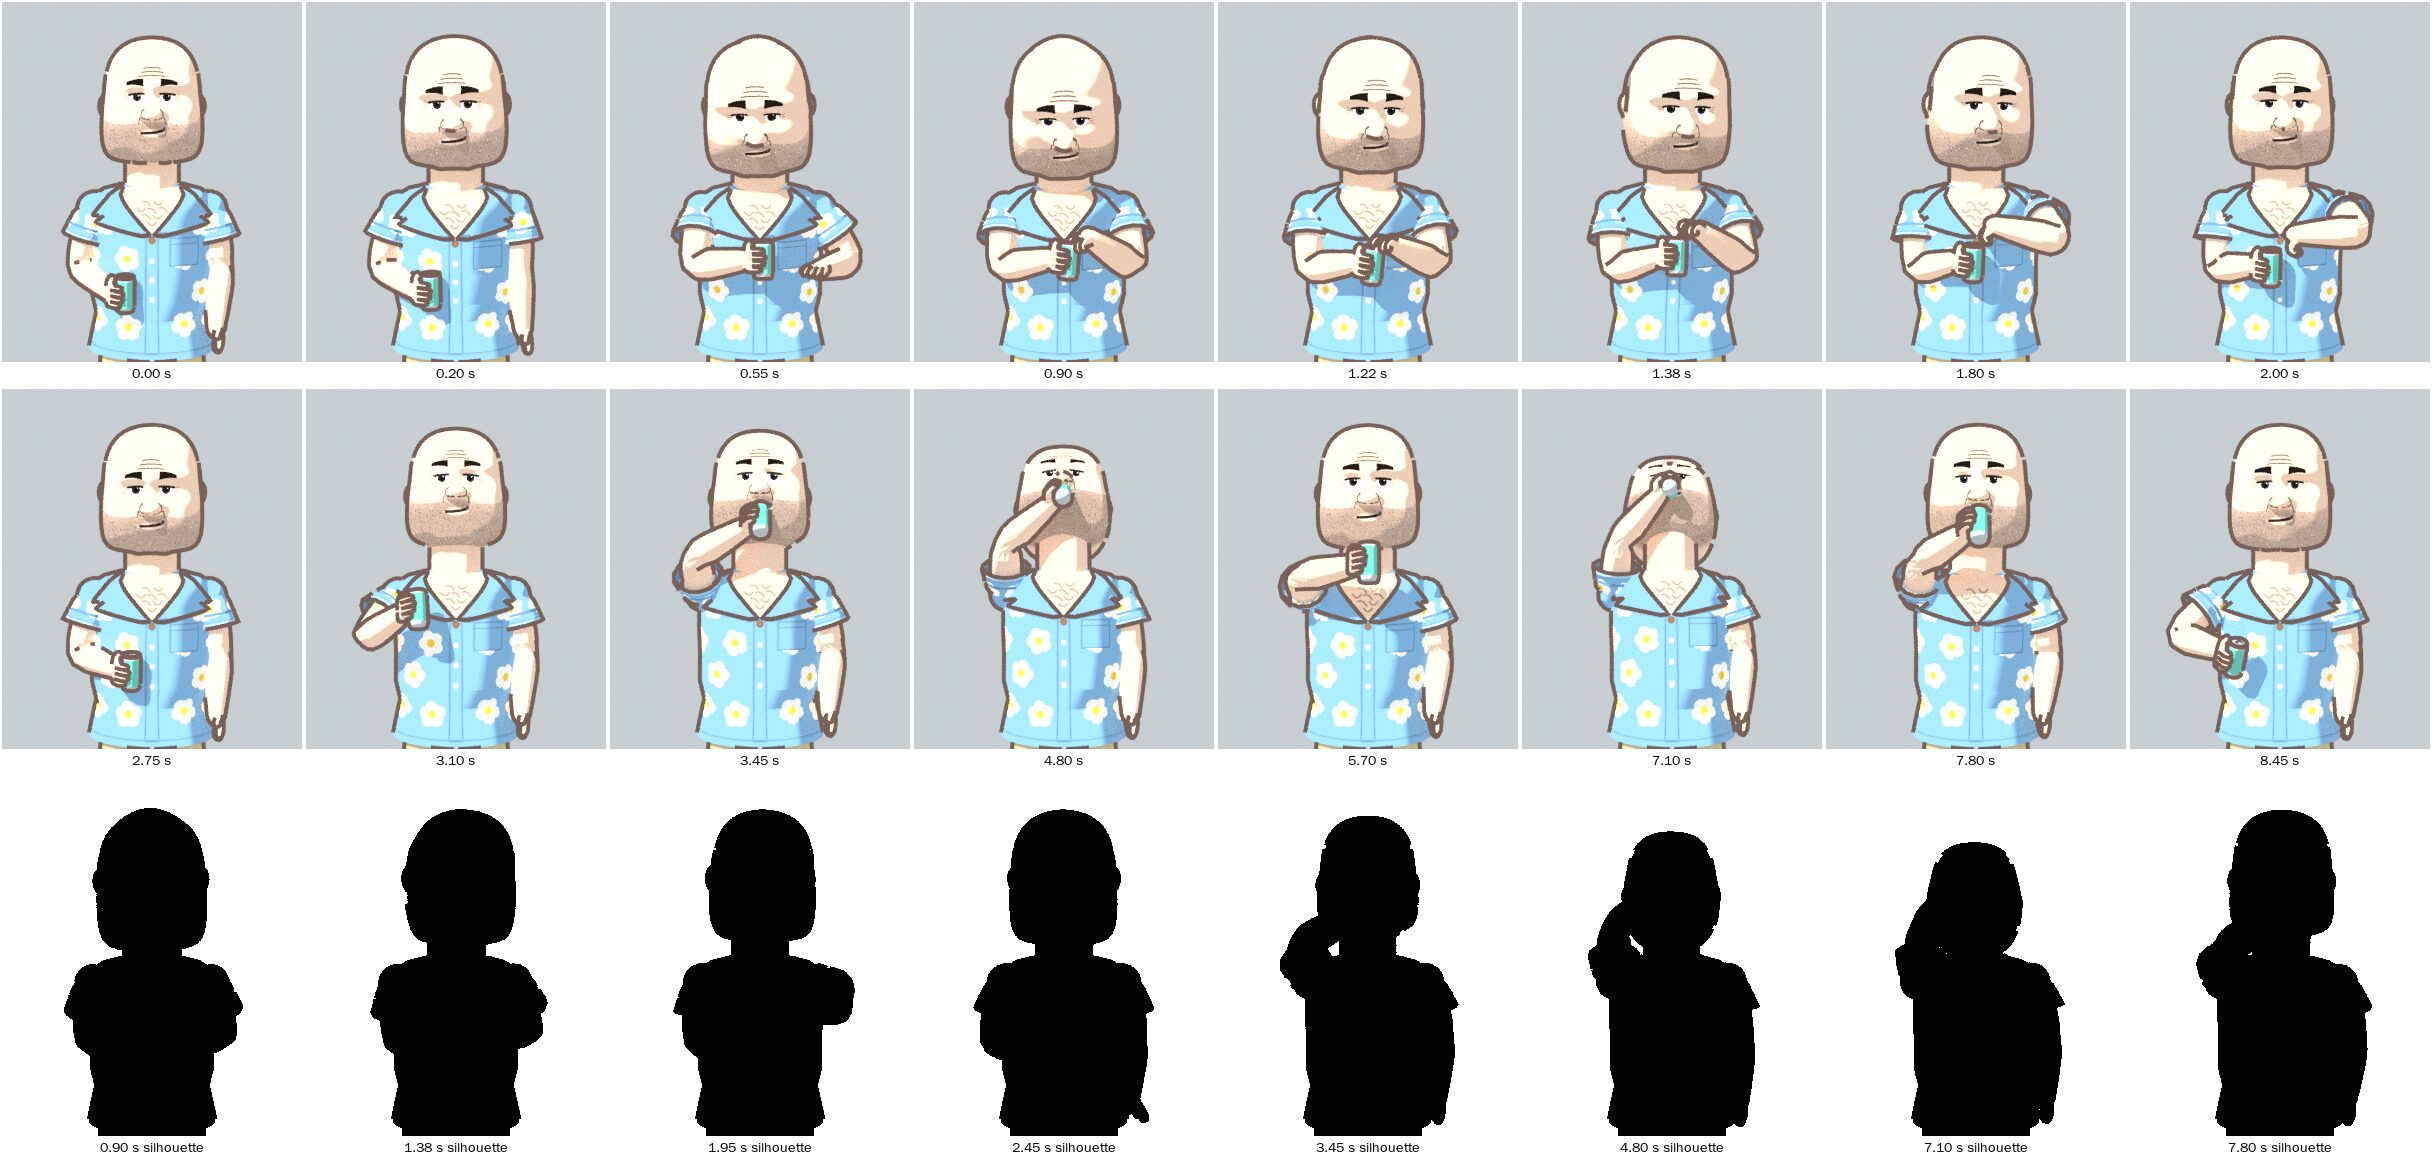
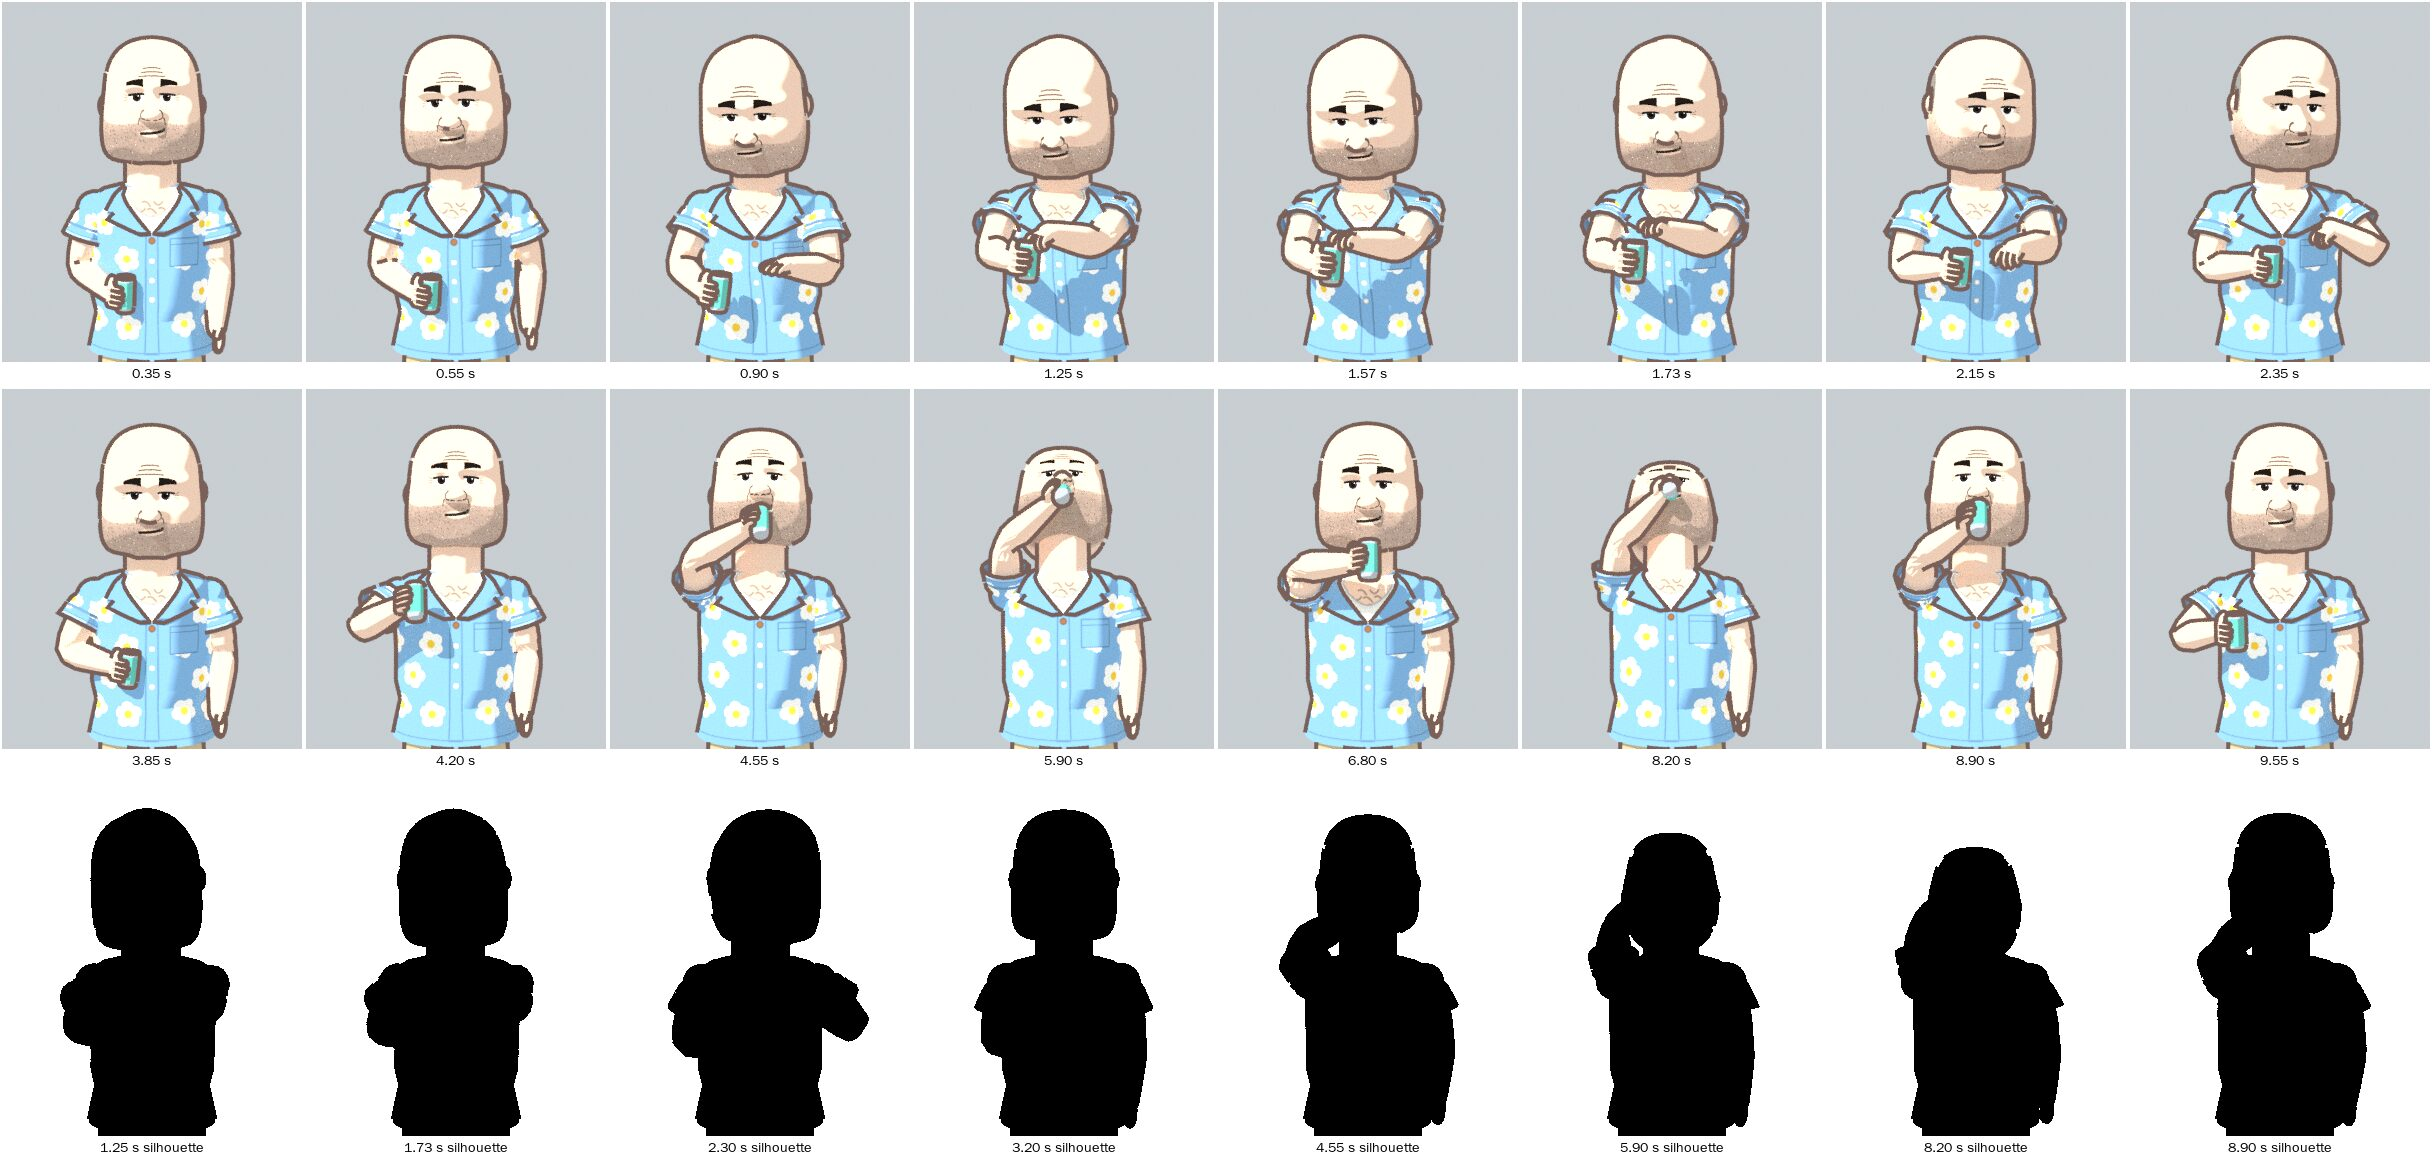
The drink off most of the baseline: sheets, handover and the standard's section 6
- Under the merged general stance easing (stanceStep) the can block's own stance correction is gone:
  the general one keeps the stance under the move.
- A play of the drink forgets the elbow ways of the last (the audit's results depended on the order
  the moves were played in); the hands' level blends in over 0.32 s (the can came up from Tetsuo's
  hanging hand 30 mm a frame over 0.3 s).
- The baseline only shrank: DrinkCan and DrinkCanOpened now fail only ease on Vy and Sverker and
  overlap on all three (both levels stop in the move's last frame since the general stance easing).
- tests/avatar-polish.test.mjs is in the CI guard (it passes whole).
- Sheets re-rendered after the merge (the smaller collar): the four Blender sheets and the game's for
  Johansson standing, Thao seated and Vy, each with the game camera's two views.
- The handover's drink section and the standard's section 6 say where it stands.

CI guard: 722 of 724, the two known (the resident guide's portraits, the runtime package).

Claude-Session: https://claude.ai/code/session_0137qroVAMP4XvjuzgJ9QXN9

diff --git a/src/avatars/drink-can.js b/src/avatars/drink-can.js
@@ -30,7 +30,7 @@ export const CAN_PARTS=Object.freeze({open:[0,M.markers.drinkEnd],drink:[M.marke
 const tracks=Object.entries(M.joints).map(([name,data])=>[name,new THREE.QuaternionKeyframeTrack(name+'.quaternion',T,data).createInterpolant()]);
 const _q=new THREE.Quaternion(),_v=new THREE.Vector3(),_w=new THREE.Vector3(),_m=new THREE.Quaternion();
 const smooth=x=>{x=Math.min(1,Math.max(0,x));return x*x*(3-2*x);};
-const pockets=new WeakMap(),lips=new WeakMap(),chosen=new WeakMap();
+const pockets=new WeakMap(),lips=new WeakMap(),chosen=new WeakMap(),played=new WeakMap();
 /** The body the motion was made on (tools/blender/drink-can.py writes its name and size into `props.can.made`): the can is
  *  not drawn to a body's size, nor held in its socket in proportion, so a body of another size cannot take the can's part of
  *  the paths in its own proportion (Vy's rim came 25 mm off her lip, her hooked finger 26 mm off the ring, the can 7 mm into
@@ -83,11 +83,11 @@ function poseAt(avatar,t,w){
 
 /** The drag hierarchy (docs/ANIMATION-STANDARD.md 3.5): the root, then the chest, head and upper arms, then the forearms
  *  and hands. The move blends in and out level by level, six game frames apart (the root first both ways), not every
- *  joint in the same frame out of the stance the animator had: in, each over 0.25 s (the forearms and hands 0.3 s: the
+ *  joint in the same frame out of the stance the animator had: in, each over 0.25 s (the forearms and hands 0.32 s: the
  *  can comes from a hanging hand no faster than 30 mm a frame), all of it within the motion's still
  *  beat at its start (0.35 s, then the left hand's first key), so the opening's anticipation and the drink's are played
  *  whole; out, each over 0.45 s, from the can settled at his waist. */
-const LEVEL={spine:0,chest:1,neck:1,head:1,shoulderL:1,shoulderR:1,elbowL:2,elbowR:2,handL:2,handR:2},APART=.1,IN=.25,IN_HANDS=.3,OUT=.45,APART_OUT=.1;
+const LEVEL={spine:0,chest:1,neck:1,head:1,shoulderL:1,shoulderR:1,elbowL:2,elbowR:2,handL:2,handR:2},APART=.1,IN=.25,IN_HANDS=.32,OUT=.45,APART_OUT=.1;
 /** Each level's weight, `blend` {in: seconds since the move began, out: seconds before it ends}. */
 export function levelWeights(blend){
  return [0,1,2].map(l=>smooth((blend.in-l*APART)/(l===2?IN_HANDS:IN))*smooth((blend.out-(2-l)*APART_OUT)/OUT));
@@ -189,6 +189,8 @@ export function wristExcess(q,side){
  */
 export function playCanDrink(avatar,prop,t,w=1,blend=null){
  const cues=canCues(t),fix={lip:0,ring:0,pocket:0,R:0,L:0};
+ // (a new play of it, not the next frame: the ways the elbows took last time forgotten, so no play starts from another's)
+ const lastT=played.get(avatar);if(lastT===undefined||Math.abs(t-lastT)>.1)chosen.delete(avatar);played.set(avatar,t);
  // (blended level by level where the move says how far in and out it is; the hands' level is the contacts' weight)
  const lw=blend?levelWeights(blend):null;if(lw)w=lw[2];
  if(w<=0&&!(lw&&lw[0]>0))return {...cues,fix};

diff --git a/src/avatars/animate.js b/src/avatars/animate.js
@@ -1249,15 +1249,6 @@ export function createAvatarAnimator(avatar,{lively=false,random=Math.random,bow
   // A can bought and drunk (actors.js drinkBought): the motion over the pose so far, blended in and out (the arm comes up
   // from where it hung to the can held at the waist, and goes back); the tab's moments as the motion has them.
   const canPart=avatar.pixar?null:gesture?.name==='DrinkCan'?CAN_PARTS.open:gesture?.name==='DrinkCanOpened'?CAN_PARTS.drink:null;
-  // (the stance kept under the can, as under the story's eased moves (EASED): a loafer's hands in the pockets, an elder's
-  // behind the back, the lean. The motion blends in from it and back out to it, and the animator is in it as the move ends,
-  // so the arms neither leave it nor go back to it in a frame. This frame's ease toward its targets was made without it (and
-  // so was the last frame's, the one the move ends in): put right by what the stance adds to them, as much of it as that
-  // ease takes (k))
-  if((canPart||canLast>=0)&&!avatar.pixar&&!s.riding&&!onChair&&!s.climbing&&!moving&&(!s.pose||STORY_POSES.has(s.pose))&&!s.carrying){
-   const CAN_STANCE=['chest','shoulderL','shoulderR','elbowL','elbowR'],was=CAN_STANCE.map(j=>target[j].clone());add('chest',gait.lean*.6);if(gait.carry==='behind'||gait.carry==='pockets')carryArms(gait.carry,0,0);
-   CAN_STANCE.forEach((j,i)=>{const d=target[j].sub(was[i]).multiplyScalar(k),r=bones[j].rotation;current[j].add(d);r.set(r.x+d.x,r.y+d.y,r.z+d.z);});
-  }
   if(canPart){
    // (blended in level by level within the motion's still beat at its start, out level by level from the can settled at
    // his waist: drink-can.js levelWeights; the face and the hands' cues by the hands' level)

diff --git a/briefs/HANDOFF-SAKURA-RESTROOM-2026-11-26.md b/briefs/HANDOFF-SAKURA-RESTROOM-2026-11-26.md
@@ -628,6 +628,57 @@ settle to 8.98 (drinkEnd moved from 8.8). Primary: the can (the left hook in the
   primary to secondary 0 frames (the IK moves the upper arm and the hand together; the half forearm drag is not enough).
   The baseline is unchanged. The sheets are 56c3b82's.
 
+## Then: the seven review notes (drink/can, after 964f071; not pushed)
+Times below are the exported motion's (the old keys moved: +0.35 s before old 2.45 s, +1.10 s after it).
+Beats (s): still beat 0-0.35 (the game's blend in, the hands' level over 0.32 s, inside it); the opening reach 0.54-1.1 with
+its counter-movement (down and in) 0.54-0.75; the ring 1.15-1.65, torn 1.65; to the pocket 1.97-2.5 (the tab in at 2.5);
+the left hand down 2.65-3.2; the can down to the waist 2.8, lifted to look at it 3.15, held (DrinkCan's drink and
+DrinkCanOpened start at 3.2, a still beat); the dip 3.54-3.86, the raise to the lip 3.86-4.55; first pull to 6.2; release,
+breath, dip, second pull 7.15-8.5; off the lips 8.57-8.8, "ahh" 8.96, the lowering's counter-movement (tipped back, up) 9.16,
+down 9.45-9.85, settled 10.08 (drinkEnd); the sip 10.1-13.1.
+1. Staging: the can opened out to his right and forward (LOWCHEST (-0.11, chestY+0.035, 0.37)k, the ring turned to the left
+   hand), the chest turned to it (spine -0.04, chest -0.09 rad), the head and eyes on it. The left elbow is about 10 cm
+   below the shoulder there, not by his side (the reach across is too far for a low elbow; and the opening has to be clearly
+   past half of the hand's furthest travel or the audit takes another stroke for the action). `hand-shots --can` now
+   shoots from the game's own camera (outdoors 3.2 m, indoors 2.2 m). From it, behind and over his right shoulder, the
+   opening does NOT show: his head and right shoulder hide anything at lower-chest height nearer than about 25 cm to his
+   right, which the left hand cannot reach. The drink's raised arm and can show past his shoulder. From the front the
+   opening's silhouette is still a blob; the pocket and the drink read.
+2. The pocket: pocketSpot now follows the breast pocket drawn on the shirt where the top has one (garment.js: the island
+   shirt, the office shirt; `mouth` added). Measured on Johansson: the drawn mouth at chest-local (0.117, 0.121, 0.121), the
+   old clip's top at (0.053, 0.163, 0.151): 64 mm further in and 42 mm higher. The tab goes 12 mm out from the mouth
+   (drink-can.js pocketMouth). The left elbow out about 45 degrees and low, the wrist flexed, the fingers down into it. The
+   torch on Tetsuo (jacket, no breast pocket) is where it was; the torch tests pass in the guard.
+3. Other bodies (drink-can.js): each wrist's path is put right near a contact for what is not in the body's proportion (the
+   can in its socket, the hooked finger, the pocket drawn on its own shirt: sizeContacts, from the maker's measure written
+   into the motion's props); the rim near the mouth is kept where the motion's own was from its lip, brought onto the lip
+   over 0.3 s (madeRimOff, LIP_NEAR); the left hand's turn held from well before the ring and through the tear; the elbow's
+   way about the arm follows a damped spring; the free left arm's fit steadied; the right wrist eased into its limits off the
+   lip. Vy: lip and ring corrections 4.6 and 24.3 mm (limits 12, 25); the face, the wrists and Johansson's shoulder pass.
+   The ring "correction" the test reads is the hook's last approach as the contact comes on (19-24 mm on every body).
+4. Overlap at the bake: the forearm and the hand 3 frames after the upper arm, the IK's own arm eased back in over 8 frames
+   each side of a contact (the ring, the pocket; the right arm also near his face, where a late forearm put the can into it);
+   then every joint from the spine up evened over five frames each side (one each side at the lip), the hands twice.
+5. The lowering's counter-movement: the can tipped back to 28 degrees and up 2.5 cm, toward him, at 9.16.
+6. The still beat at the start and before the drink, the shorter level blend (in 0.25 s, the hands 0.32 s, 0.1 s apart; out
+   0.45 s), the stance kept under the can (until the merge, below).
+7. The second pull: spine -0.075, chest -0.17, neck -0.2, head -0.38 (was -0.055, -0.13, -0.18, -0.44).
+Also: a can in tests/avatar-polish.test.mjs is checked as the Blender sip places it (it failed since 59e05bc); the test is
+in the CI guard now. A play of the drink forgets the elbow ways of the last one (results depended on the order played).
+
+Proved: drink-can, open-can and avatar-polish tests pass (23). The audit: both moves pass anticipation, arcs, twins and
+volume on Vy, Johansson and Sverker; ease passes on Johansson (both moves); the baseline only shrank (DrinkCan and
+DrinkCanOpened: ease on Vy and Sverker, overlap on all three). Before merging claude/dreamy-ritchie-cxufpl (the general
+stance easing, stanceStep) overlap passed on all three; after it, the primary and secondary levels stop in the same frame
+as the move ends (the stance's return moves both), with or without the can block's own stance correction (removed: the
+general one now does it). Ease left: DrinkCan on Vy (the hand starts at 58% after the first pull, 6.23 s) and Sverker (the
+elbow at the opening's dip 0.8 s, 52-68%; the hand at the first pull's onset 4.48 s, 64%); DrinkCanOpened on Vy (63% as
+the can comes off the lips, 8.63-9.0 s) and Sverker (64% at 4.48 s). Sheets: art/characters/body-kit/review/drink-can-{front,
+three-quarter,side,opening}.jpg (Blender, with the silhouette rows) and drink-can-game-{johansson,thao-seated,vy}.jpg.
+
+Remains: the overlap at the move's end with the general stance; the last ease steps on Vy and Sverker; the opening seen
+from the game camera (needs the camera, or the body turned, not the arms); the owner has not seen any of it.
+
 # 27 November, evening: the animation guideline, adopted strictly
 
 The owner: "https://github.com/dylantarre/animation-principles use this as the guidelines for animating Johansson world

diff --git a/docs/ANIMATION-STANDARD.md b/docs/ANIMATION-STANDARD.md
@@ -389,14 +389,8 @@ A move passes a check when it passes it on every body it applies to. What makes 
 
 The audit also found faults that "No glitches" forbids, whatever the principles say:
 
-- **The can drink's motion has a pop.** In the exported motion (`motions/drink-can.js`), the right shoulder turns 0.35 rad
-  between two 30 fps keys (at 5.53 s of the motion; 3.08 s into DrinkCanOpened), after 0.03 and before 0.18 and 0.18: in the
-  game, 0.75 rad/s, then 10.6 rad/s for two frames, then 5.4. At 60 fps that is 0.18 rad a frame, under the 0.3 that
-  `tests/drink-can.test.mjs` allows, so that test does not see it.
-- **On Sverker, the drink flips his right elbow** about 0.6 rad and back within a frame, twice, as the rim comes to the lip
-  (0.80–0.88 s into DrinkCanOpened, where the arm is put right for his body; up to 37 rad/s). He is not one of the drink
-  test's seven bodies.
-- **Johansson's head hitches** at 0.3 s into DrinkCanOpened: 1.6 rad/s, 0.3, then 1.75.
+- **The can drink's pops are gone** (re-keyed on drink/can): no joint's speed changes by 0.06 rad a frame on the nine bodies of
+  `tests/drink-can.test.mjs`; Sverker's elbow flip and Johansson's head hitch with them.
 - **Jump's crouch never reaches the hips.** The root's 8 cm down is taken back by the feet held to the floor; the hips rise
   6 mm, then leave at 1.2 m/s in a frame.
 - **Eating and drinking jump the hand.** In Eat, Drink, SitEat, SitDrink and SitToast the right hand jumps 9–22 cm in the
@@ -417,8 +411,8 @@ The worst offenders, most seen in play first (the worst of the three bodies; fra
 | 6 | SitEat | ease, arcs, overlap | the hand jumps 10–21 cm in the first frame and 11–20 cm at the end; the same straight drop |
 | 7 | Drink | ease, arcs, overlap | as Eat: the jumps, and the drop 0.8–0.9% off a 27–47 cm chord |
 | 8 | SitDrink | ease, arcs, overlap | steps of 105–114% at 0 s and 2.43 s; straight strokes (0.8–0.9%); the secondary stops before the primary |
-| 9 | DrinkCanOpened | ease, anticipation, arcs, overlap | the pop at 3.08 s (the right wrist's turn steps by 160% of its top speed in a frame), Sverker's elbow flip, the head's hitch, the stance snap; no counter-movement before the 0.97 s lift (5–28 mm back, 2.3–3.7 cm needed); the release from the lip and the return to it straight (2.6–7.7% off 15–26 cm); the blend starts every level together |
-| 10 | DrinkCan | ease, anticipation, arcs, overlap | the same pop at 5.53 s; the opening's left hand starts at 71% of its top speed; no counter-movement before the lift; straight strokes (2.3–7.4%) |
+| 9 | DrinkCanOpened | ease (Vy, Sverker), overlap | re-keyed (drink/can): anticipation, arcs, twins and volume pass on the three bodies, ease on Johansson; the last steps 63-64% (Vy as the can comes off the lips, Sverker at the first pull's onset); overlap: since the general stance easing, both levels stop in the move's last frame |
+| 10 | DrinkCan | ease (Vy, Sverker), overlap | the same; the opening's anticipation 36-46% of the reach, the raise's 33-41%; Sverker's elbow steps 68% in the opening's dip |
 | 11 | SitDown | ease, anticipation, overlap, twins, squash | the arms snap out of the standing stance at 0 s, mirrored; the hips go back and down with no counter-movement; on Vy and Sverker the hips land at 0.6–0.8 m/s with no squash |
 | 12 | StandUp | ease, anticipation, overlap, twins | the head and shoulders step 100% at 0.48 s as the seat lets go; no counter-movement; mirrored |
 | 13 | ScratchHead (habit) | ease, anticipation, arcs, overlap | the stance snap; no counter-movement; the hand over the head loops 51–54% off its chord, past a half circle |
